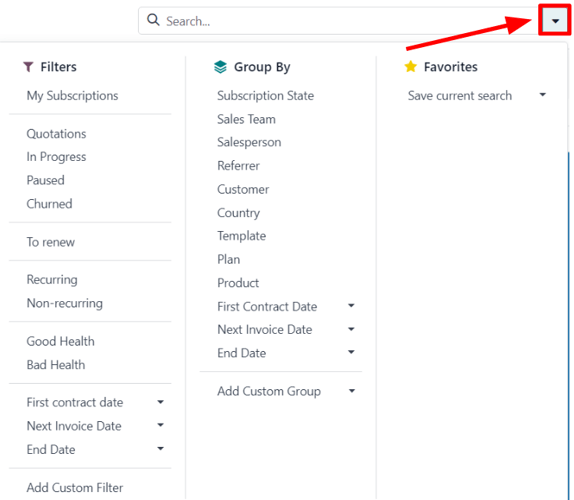
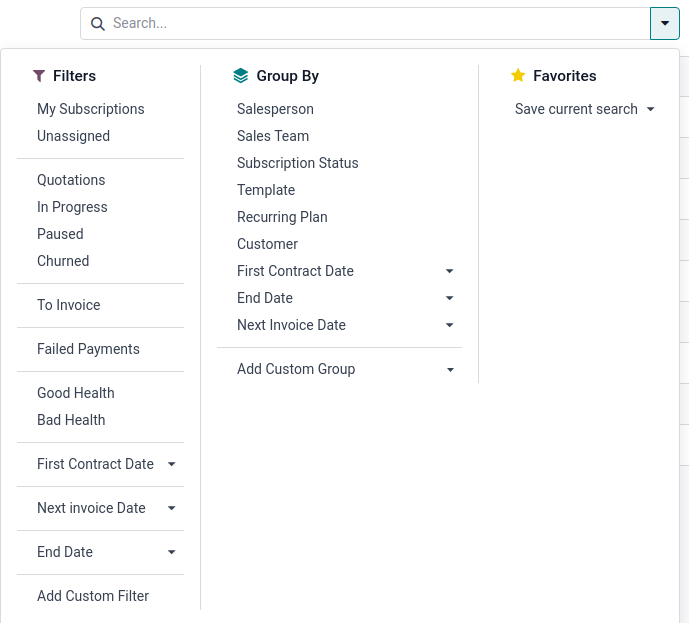
[IMP] Subscriptions: Report format update
X-original-commit: 31972238cc634295dead7317f9025b3544c017de

diff --git a/content/applications/sales/subscriptions/reports.rst b/content/applications/sales/subscriptions/reports.rst
@@ -2,75 +2,70 @@
 Subscription reports
 ====================
 
-The Odoo *Subscriptions* application provides a series of reporting pages to help companies analyze
-how subscriptions are performing.
+.. |MRR| replace:: :abbr:`MRR (Monthly Recurring Revenue)`
+.. |ARR| replace:: :abbr:`ARR (Annual Recurring Revenue)`
+
+The Odoo **Subscriptions** app provides a series of reporting pages to help companies analyze how
+subscriptions are performing.
 
 On the *Subscriptions Analysis* reporting page, users can view specific data related to recurring
-subscriptions, quantity of subscriptions, how many subscriptions are in progress or paused, and so
-much more.
+subscriptions, quantity of subscriptions, in-progress or paused subscriptions, and more.
 
 The *Retention Analysis* reporting page provides an organized table of subscription retention
 percentages over any period of time.
 
-The *MRR Breakdown* reporting page clearly divides MRR (Monthly Recurring Revenue) and ARR (Annual
-Recurring Revenue) metrics for subscriptions into various graphs, lists, and charts.
+The *MRR Breakdown* reporting page clearly divides |MRR| and |ARR| metrics for subscriptions into
+various graphs, lists, and charts.
 
 And the *MRR Analysis* reporting page offers a time-based collection of analytics showcasing how
-subscription MRR and ARR has changed over the course of any given period of time.
+subscription |MRR| and |ARR| have changed over the course of any given period of time.
 
 Reporting page elements
 =======================
 
-All subscription-based reporting pages can be accessed via the :guilabel:`Reporting` header menu in
-the *Subscriptions* application.
+All subscriptions-based reporting pages can be accessed via the :guilabel:`Reporting` header menu in
+the **Subscriptions** app.
 
-The following describes elements found on each reporting page.
+The following sections describe elements found on each reporting page.
 
 Filters and Group By
 --------------------
 
-Filters are used to narrow down metrics to show specific analytics, whereas groupings (via the
-:guilabel:`Group By` option) are used to gather specific sections' data into groups for more
+*Filters* are used to narrow down metrics to show specific analytics, whereas groupings (via the
+*Group By* option) are used to gather the data from specific sections into groups for more
 organized analysis.
 
 This section refers to both filters and groupings, as a combination of the two can be saved in the
-:guilabel:`Favorites` section.
+*Favorites* section.
 
-To modify the results being shown on any reporting page, click the :guilabel:`▼ (downward facing
-arrow)` icon to the right of the search bar. Doing so reveals a drop-down menu of detailed filter
-and grouping options.
-
-.. note::
-   Multiple filter options and grouping options can be selected at once.
-
-.. image:: reports/reporting-filter-options-dropdown.png
-   :align: center
-   :alt: The reporting filter drop-down menu of options in the Odoo Subscriptions application.
+To modify the results being shown on any reporting page, click the :icon:`fa-caret-down`
+:guilabel:`(down arrow)` icon to the right of the search bar. Doing so reveals a drop-down menu of
+detailed filter and grouping options.
 
 If desired, a filter or grouping (or combination of filters and/or groupings) can be saved in the
-:guilabel:`Favorites` section of that drop-down menu. To do that, click the :guilabel:`▼ (downward
-facing arrow)` icon beside :guilabel:`Save current search`, located beneath the
+:guilabel:`Favorites` section of that drop-down menu. To do so, click the :icon:`fa-caret-down`
+:guilabel:`(down arrow)` icon beside :guilabel:`Save current search`, located beneath the
 :guilabel:`Favorites` section.
 
-That reveals a field to assign a title to the favorite filter. There are also two options beneath
-the title field, as well: :guilabel:`Default filter` and :guilabel:`Shared`.
+This reveals a field to assign a title to the favorite filter. Two options are also found beneath
+the title field: :guilabel:`Default filter` and :guilabel:`Shared`.
 
-Ticking the check box beside :guilabel:`Default filter` makes the newly-favorited filter the default
+Ticking the checkbox beside :guilabel:`Default filter` makes the newly-favorited filter the default
 option for that reporting page.
 
-Ticking the box beside :guilabel:`Shared` makes the newly-favorited filter available to other users
-in the database.
+Ticking the checkbox beside :guilabel:`Shared` makes the newly-favorited filter available to other
+users in the database.
 
 .. note::
-   The :guilabel:`Default filter` and :guilabel:`Shared` options are **not** required. Only *one* of
-   those options can be selected at a time.
+   The :guilabel:`Default filter` and :guilabel:`Shared` options are **not** required, and only
+   *one* of these options can be selected at a time.
 
-To save that filter(s), click :guilabel:`Save` in the :guilabel:`Favorites` section of the drop-down
+To save the filter, click :guilabel:`Save` in the :guilabel:`Favorites` section of the drop-down
 filter menu.
 
 When clicked, that saved filter appears beneath the :guilabel:`Favorites` column of the drop-down
-filter menu, and a :guilabel:`⭐ (gold star)` icon appears beside the favorite filter's name in the
-search bar.
+filter menu, and a :icon:`fa-star` :guilabel:`(gold star)` icon appears beside the favorite filter's
+name in the search bar.
 
 Views
 -----
@@ -84,8 +79,8 @@ reporting pages, three different view options are located in the upper-right cor
 The available view options, from left to right, are:
 
 - :guilabel:`Graph`
-- :guilabel:`Pivot`
 - :guilabel:`List`
+- :guilabel:`Pivot`
 
 .. image:: reports/subscriptions-analysis-page-view-options.png
    :align: center
@@ -102,34 +97,47 @@ representation of the data. These graph-specific options are located to the righ
 
 .. image:: reports/subscriptions-graph-specific-options.png
    :align: center
-   :alt: The different graph view options in the Odoo Subscriptions application.
+   :alt: The different graph view options in the Odoo Subscriptions app.
 
 The first three options, from left to right, represent different graph-related views. The remaining
 options represent different ways to organize and visualize that specific graph-related data.
 
 From left to right, the specific graph-related view options are:
 
-- :guilabel:`Bar Chart`: showcases the data in a bar chart format.
-- :guilabel:`Line Chart`: showcases the data in a line chart format.
-- :guilabel:`Pie Chart`: showcases the data in a pie chart format.
+- :icon:`fa-bar-chart` :guilabel:`Bar Chart`: showcases the data in a bar chart format.
+- :icon:`fa-line-chart` :guilabel:`Line Chart`: showcases the data in a line chart format.
+- :icon:`fa-pie-chart` :guilabel:`Pie Chart`: showcases the data in a pie chart format.
 
 Each graph view option has its own series of specific visual options, which are represented by the
 available buttons that appear to the right of the selected graph-related view option.
 
-When the :guilabel:`Bar Chart` graph view is selected, the following visual options are available:
+When the :icon:`fa-bar-chart` :guilabel:`Bar Chart` graph view is selected, the following visual
+options are available:
 
-- :guilabel:`Stacked`: showcases the data in a stacked visual format.
-- :guilabel:`Descending`: showcases the data in descending order.
-- :guilabel:`Ascending`: showcases the data in ascending order.
+- :icon:`fa-database` :guilabel:`Stacked`: showcases the data in a stacked visual format.
+- :icon:`fa-sort-amount-desc` :guilabel:`Descending`: showcases the data in descending order.
+- :icon:`fa-sort-amount-asc` :guilabel:`Ascending`: showcases the data in ascending order.
 
 When the :guilabel:`Line Chart` graph view is selected, the following visual options are available:
 
-- :guilabel:`Stacked`: showcases the data in a stacked visual format.
-- :guilabel:`Cumulative`: showcases the data in accumulated, increasing format.
-- :guilabel:`Descending`: showcases the data in descending order.
-- :guilabel:`Ascending`: showcases the data in ascending order.
+- :icon:`fa-database` :guilabel:`Stacked`: showcases the data in a stacked visual format.
+- :icon:`fa-signal` :guilabel:`Cumulative`: showcases the data in accumulated, increasing format.
+- :icon:`fa-sort-amount-desc` :guilabel:`Descending`: showcases the data in descending order.
+- :icon:`fa-sort-amount-asc` :guilabel:`Ascending`: showcases the data in ascending order.
 
 When the :guilabel:`Pie Chart` graph view is selected, there are no additional visual options.
+
+List view
+~~~~~~~~~
+
+With the list view selected, the subscription metrics being analyzed are displayed in a simple list,
+which can be fully customized by using any of the available filters or groupings in the drop-down
+filter menu (accessible via the :icon:`fa-caret-down` :guilabel:`(down arrow)` icon to the right of
+the search bar).
+
+.. note::
+   With list view selected, the :guilabel:`Measures` drop-down menu and :guilabel:`Insert in
+   Spreadsheet` button are *not* available.
 
 Pivot view
 ~~~~~~~~~~
@@ -138,47 +146,39 @@ With the pivot view selected, the subscription metrics are displayed in a data t
 fully customized.
 
 The pivot data table can be customized using the options available in the :guilabel:`Measures`
-drop-down menu and/or the filter options available in the filter drop-down menu (accessible via the
-:guilabel:`▼ (downward facing arrow)` icon to the right of the search bar).
+drop-down menu, and/or the filter grouping options available in the filter drop-down menu
+(accessible via the :icon:`fa-caret-down` :guilabel:`(down arrow)` icon to the right of the search
+bar).
 
-There are three pivot-specific options available, located to the right of the :guilabel:`Measures`
+Three pivot-specific options are available, located to the right of the :guilabel:`Measures`
 drop-down menu and :guilabel:`Insert in Spreadsheet` button.
 
 .. image:: reports/subscriptions-pivot-view-options.png
    :align: center
-   :alt: The pivot-specific view options available in the Odoo Subscriptions application.
+   :alt: The pivot-specific view options available in the Odoo Subscriptions app.
 
 From left to right, those pivot-specific view options are:
 
-- :guilabel:`Flip axis`: the `x` and `y` axis of the pivot data table flip.
-- :guilabel:`Expand all`: all the available rows and columns of the pivot data table expand fully.
-- :guilabel:`Download xlsx`: the pivot data table is downloaded as an .xlsx file.
-
-List view
-~~~~~~~~~
-
-With the list view selected, the subscription metrics being analyzed are displayed in a simple list,
-which can be fully customized by using any of the available filters in the drop-down filter menu
-(accessible via the :guilabel:`▼ (downward facing arrow)` icon to the right of the search bar).
-
-.. note::
-   With list view selected, the :guilabel:`Measures` drop-down menu and :guilabel:`Insert in
-   Spreadsheet` button are *not* available.
+- :icon:`fa-exchange` :guilabel:`Flip axis`: the `x` and `y` axis of the pivot data table flip.
+- :icon:`fa-arrows` :guilabel:`Expand all`: all the available rows and columns of the pivot data
+  table expand fully.
+- :icon:`fa-download` :guilabel:`Download .xlsx`: the pivot data table is downloaded as an
+  :file:`.xlsx` file.
 
 Measures
 --------
 
-Each reporting page has its own metric-specific :guilabel:`Measures` drop-down menu of data-related
-options to choose from, located in the upper-left corner, above the visual representation of
-metrics.
+The graph and pivot reporting pages have their own metric-specific :guilabel:`Measures` drop-down
+menu of data-related options to choose from, located in the upper-left corner, above the visual
+representation of metrics.
 
 .. image:: reports/subscriptions-measures-drop-down.png
    :align: center
-   :alt: The standard measures drop-down menu in the Odoo Subscriptions application.
+   :alt: The standard measures drop-down menu in the Odoo Subscriptions app.
 
-When clicked, a series of selectable measures become available, via a drop-down menu. When any of
-the options are selected from a :guilabel:`Measures` drop-down menu, the chosen metrics related to
-that specific measure appear on the reporting page.
+When the :guilabel:`Measures` button is clicked, a series of selectable measures becomes available,
+via a drop-down menu. When any of the options are selected from the :guilabel:`Measures` drop-down
+menu, the chosen metrics related to that specific measure appear on the reporting page.
 
 .. note::
    For more information on the different measures that can be utilized on each reporting page, refer
@@ -205,14 +205,11 @@ Select the desired option from this pop-up window, then click :guilabel:`Confirm
 Reporting pages
 ===============
 
-In the Odoo *Subscriptions* application, there are four different reporting pages available.
+In the Odoo **Subscriptions** app, there are four different reporting pages available.
 
 To access, analyze, and customize various reports related to subscriptions, navigate to
 :menuselection:`Subscriptions app`, and click the :guilabel:`Reporting` drop-down menu in the
-header.
-
-Clicking :guilabel:`Reporting` in the header menu reveals a drop-down menu of the following
-reporting pages:
+header to reveal the following reporting pages:
 
 - :guilabel:`Subscriptions`
 - :guilabel:`Retention`
@@ -240,8 +237,8 @@ The following filters are also present in the search bar: :guilabel:`In Progress
    :align: center
    :alt: The default view of the Subscriptions Analysis reporting page in Odoo Subscriptions.
 
-When the :guilabel:`Measures` drop-down menu on the :guilabel:`Subscriptions Analysis` page is
-clicked, a series of metric-related options become available.
+When the :guilabel:`Measures` button on the :guilabel:`Subscriptions Analysis` page is
+clicked, a series of metric-related options becomes available as a drop-down menu.
 
 .. image:: reports/subscriptions-analysis-measures.png
    :align: center
@@ -269,9 +266,9 @@ Retention analysis
 To access the :guilabel:`Retention Analysis` reporting page, navigate to
 :menuselection:`Subscriptions app --> Reporting --> Retention`.
 
-The :guilabel:`Retention Analysis` reporting page differs from the other *Subscriptions* app
-reporting pages, in that it does *not* provide any additional view options. The data on this page is
-only presented in a customizable data chart.
+The :guilabel:`Retention Analysis` reporting page differs from the other **Subscriptions** app
+reporting pages, in that it does **not** provide any additional view options. The data on this page
+is only presented in a customizable data chart.
 
 .. image:: reports/subscriptions-retention-analysis-page-default.png
    :align: center
@@ -328,9 +325,9 @@ To access the :guilabel:`MRR Breakdown` reporting page, navigate to :menuselecti
 app --> Reporting --> MRR Breakdown`.
 
 By default, the data displayed on the :guilabel:`MRR Breakdown` reporting page is in graph view,
-with the :guilabel:`Bar Chart` option and the :guilabel:`Stacked` option selected.
+with the :guilabel:`Bar Chart` option and :guilabel:`Stacked` option selected.
 
-There is also a default filter in the search bar for :guilabel:`Event Date: Month > Event Type`.
+A default filter is also available in the search bar for :guilabel:`Event Date: Month > Event Type`.
 
 .. image:: reports/subscriptions-mrr-breakdown-default.png
    :align: center
@@ -356,14 +353,14 @@ Breakdown` reporting page are:
 
 .. tip::
    To make a different measure option the default, first, select the desired measure from the
-   :guilabel:`Measures` drop-down menu. Then, click the :guilabel:`(downward facing arrow)` icon in
-   the search bar to open the mega menu of filters and groupings.
+   :guilabel:`Measures` drop-down menu. Then, click the :icon:`fa-caret-down` :guilabel:`(down
+   arrow)` icon in the search bar to open the mega menu of filters and groupings.
 
-   In the :guilabel:`Favorites` column, click the :guilabel:`(downward facing arrow)` icon beside
-   :guilabel:`Save current search` to reveal a field, where a title can be entered, along with two
-   checkboxes::guilabel:`Default filter` and :guilabel:`Shared`.
+   In the :guilabel:`Favorites` column, click the :icon:`fa-caret-down` :guilabel:`(down arrow)`
+   icon beside :guilabel:`Save current search` to reveal a field, where a title can be entered,
+   along with two checkboxes::guilabel:`Default filter` and :guilabel:`Shared`.
 
-   Tick the box for :guilabel:`Default filter`, and click :guilabel:`Save`.
+   Tick the checkbox for :guilabel:`Default filter`, and click :guilabel:`Save`.
 
    That newly-chosen measure option is now the default option that appears when this reporting page
    is accessed.
@@ -378,7 +375,7 @@ By default, the data displayed on the :guilabel:`MRR Analysis` reporting page is
 the :guilabel:`Line Chart` option, :guilabel:`Stacked` option, and :guilabel:`Cumulative` option
 selected.
 
-There is also a default filter in the search bar for :guilabel:`Event Date: Month`.
+A default filter is also found in the search bar for :guilabel:`Event Date: Month`.
 
 .. image:: reports/subscriptions-mrr-analysis-default.png
    :align: center
